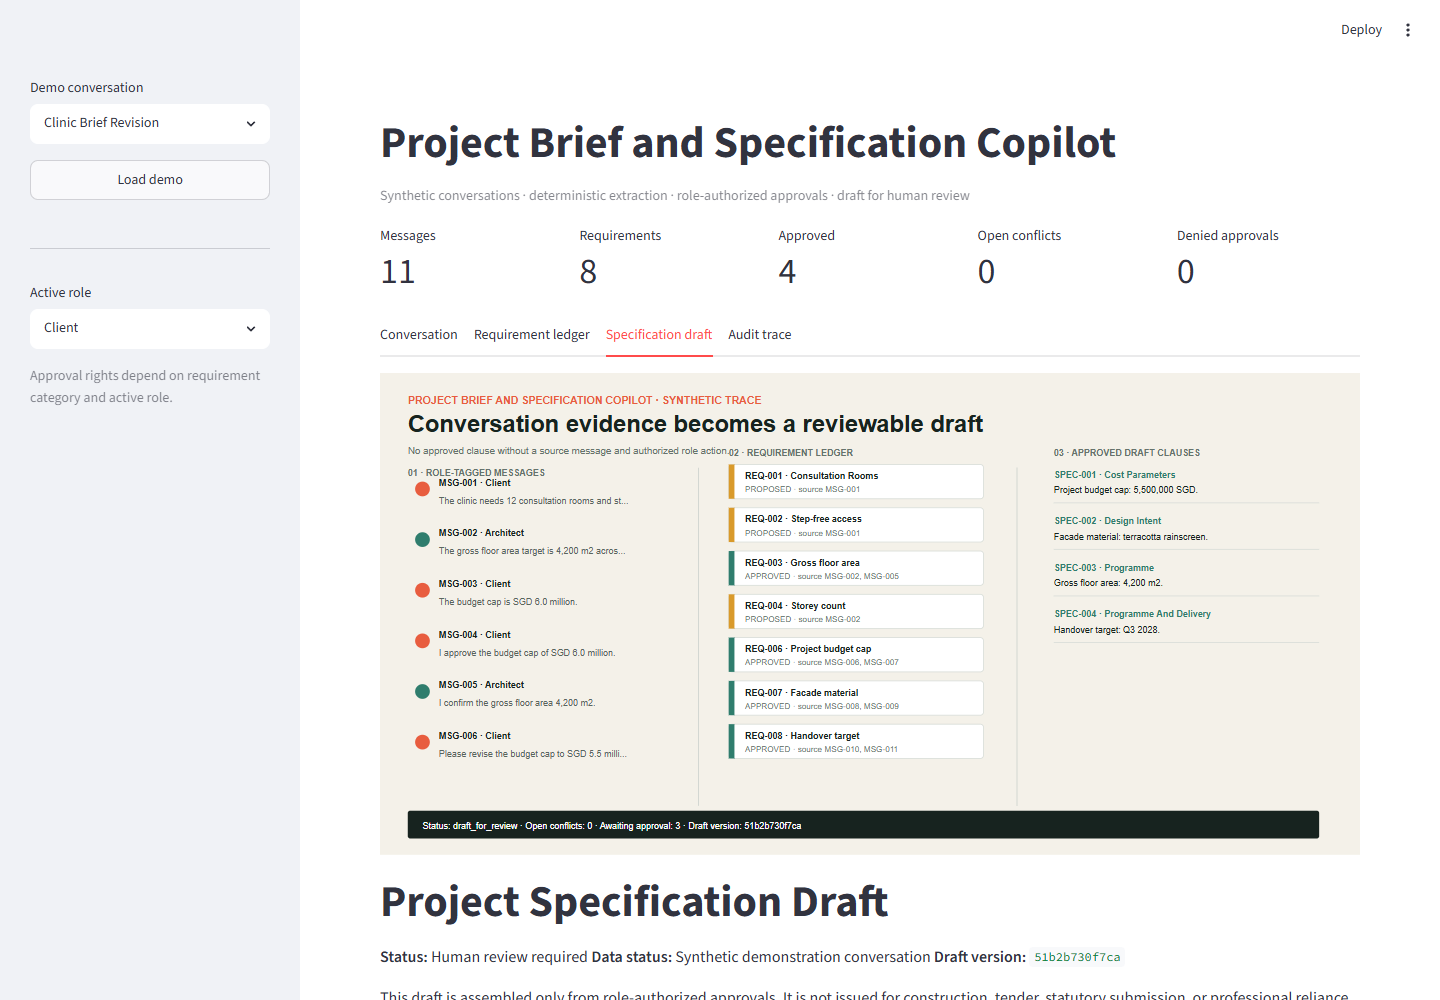
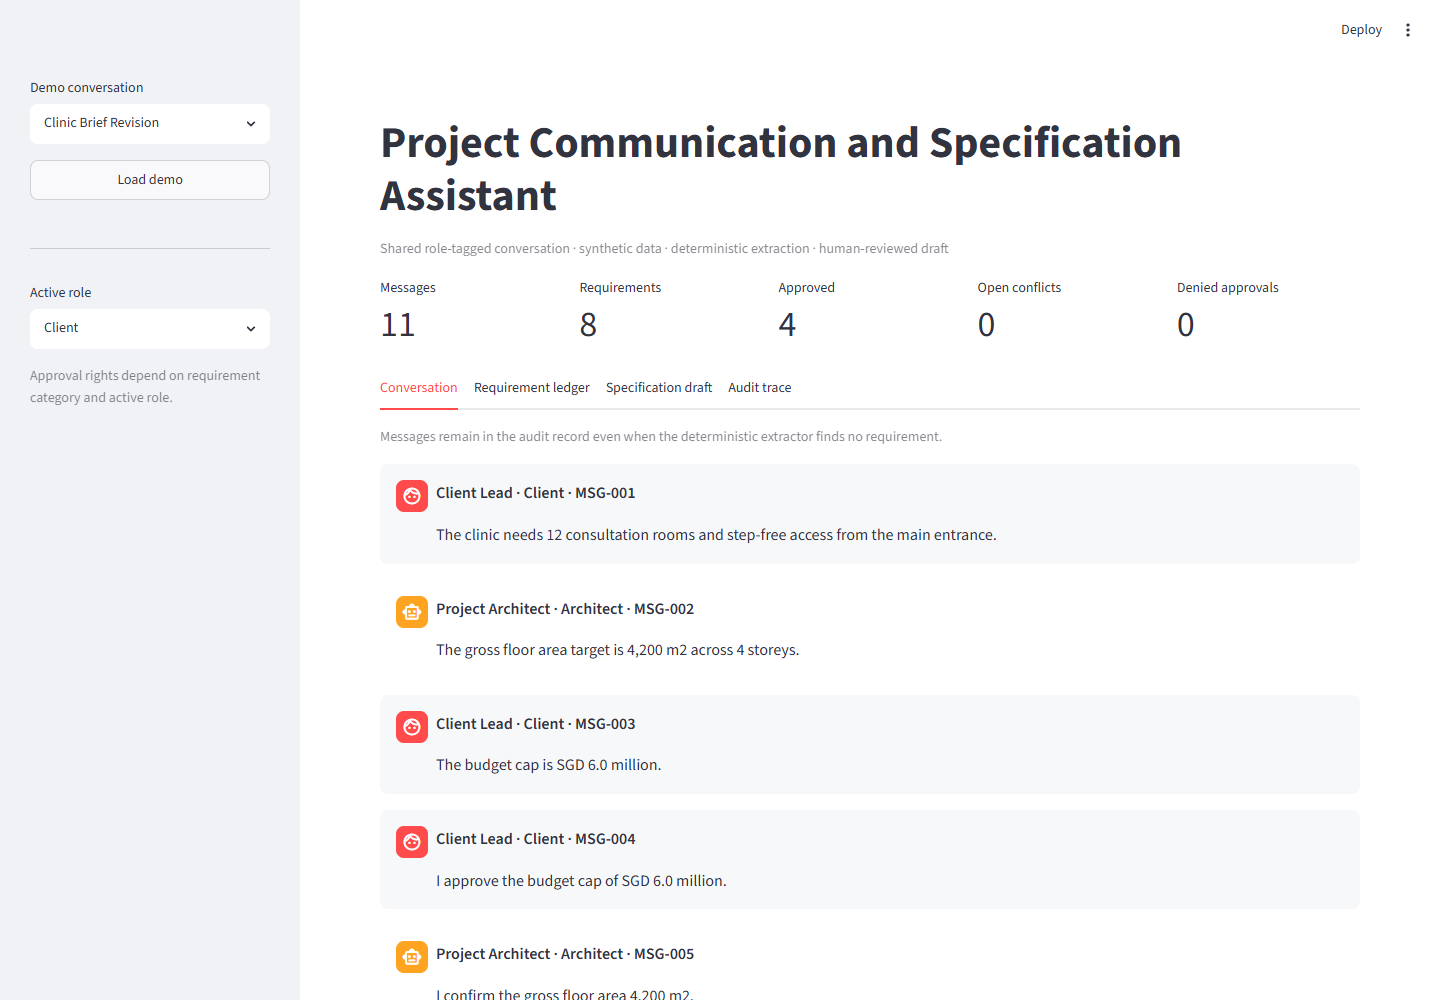
Clarify collaborative specification assistant

diff --git a/portfolio-site/index.html b/portfolio-site/index.html
@@ -142,11 +142,11 @@
           <div class="support-grid support-grid--three">
             <article class="project-card project-card--visual">
               <img src="assets/specification-copilot-demo.png" alt="Role-tagged project messages, requirement ledger, and source-linked draft clauses" />
-              <span>Requirements Intelligence</span>
-              <h3>Project Brief and Specification Copilot</h3>
-              <p>Versioned requirements, conflict detection, scoped approvals, audit events, and source-linked draft clauses.</p>
+              <span>Project Communication</span>
+              <h3>Communication and Specification Assistant</h3>
+              <p>Shared role-tagged chat, versioned requirements, conflict detection, scoped approvals, audit events, and source-linked draft clauses.</p>
               <strong>5 conversations / 35 messages / 1.000 fixture F1</strong>
-              <small>Synthetic authored fixtures; deterministic phrase grammar, not a professional specification.</small>
+              <small>Synthetic authored fixtures; deterministic phrase grammar, not open-domain chat or a professional specification.</small>
               <a href="https://github.com/josiahsutd-stack/ai-portfolio/tree/main/projects/project-specification-copilot">View project</a>
             </article>
             <article class="project-card project-card--visual">

diff --git a/tests/test_project_specification_copilot.py b/tests/test_project_specification_copilot.py
@@ -3,6 +3,7 @@ from __future__ import annotations
 from pathlib import Path
 
 from project_specification_copilot import (
+    ROLES,
     AuditStore,
     Message,
     SpecificationEngine,
@@ -101,6 +102,33 @@ def test_unsupported_chatter_produces_no_requirement_or_clause() -> None:
     assert not engine.snapshot().requirements
     assert engine.draft_specification().status == "needs_review"
     assert not engine.draft_specification().clauses
+
+
+def test_multi_party_conversation_preserves_roles_and_gates_draft_clauses() -> None:
+    engine = SpecificationEngine()
+    messages = [
+        ("client", "The project needs a community hall."),
+        ("architect", "The entrance shall be step-free."),
+        ("structural_engineer", "The structural system shall be steel frame."),
+        ("quantity_surveyor", "The budget cap is SGD 6 million."),
+        ("project_manager", "The completion target is 18 months."),
+        ("contractor", "Please coordinate temporary access at the next meeting."),
+    ]
+    for role, text in messages:
+        engine.submit_message(role, text)
+    engine.submit_message("client", "I approve the community hall.")
+
+    snapshot = engine.snapshot()
+    draft = engine.draft_specification()
+
+    assert {message.role for message in snapshot.messages}.issubset(set(ROLES))
+    assert [message.sequence for message in snapshot.messages] == list(
+        range(1, len(snapshot.messages) + 1)
+    )
+    assert len({message.message_id for message in snapshot.messages}) == len(snapshot.messages)
+    assert len(draft.clauses) == 1
+    assert draft.clauses[0].approved_by_role == "client"
+    assert draft.unapproved_requirement_ids
 
 
 def test_sqlite_audit_events_persist_in_order(tmp_path: Path) -> None:

diff --git a/projects/project-specification-copilot/app.py b/projects/project-specification-copilot/app.py
@@ -34,11 +34,13 @@ def load_case(case_index: int) -> SpecificationEngine:
 
 
 st.set_page_config(
-    page_title="Project Brief and Specification Copilot", page_icon="PS", layout="wide"
+    page_title="Project Communication and Specification Assistant",
+    page_icon="PS",
+    layout="wide",
 )
-st.title("Project Brief and Specification Copilot")
+st.title("Project Communication and Specification Assistant")
 st.caption(
-    "Synthetic conversations · deterministic extraction · role-authorized approvals · draft for human review"
+    "Shared role-tagged conversation · synthetic data · deterministic extraction · human-reviewed draft"
 )
 
 with st.sidebar:
@@ -76,6 +78,9 @@ conversation_tab, ledger_tab, specification_tab, audit_tab = st.tabs(
 )
 
 with conversation_tab:
+    st.caption(
+        "Messages remain in the audit record even when the deterministic extractor finds no requirement."
+    )
     for message in snapshot.messages:
         with st.chat_message("user" if message.role == "client" else "assistant"):
             st.markdown(

diff --git a/projects/project-specification-copilot/src/project_specification_copilot/rendering.py b/projects/project-specification-copilot/src/project_specification_copilot/rendering.py
@@ -53,10 +53,10 @@ def render_specification_trace_svg(snapshot: ProjectSnapshot, draft: Specificati
             f'<line x1="825" y1="{y + 27}" x2="1150" y2="{y + 27}" stroke="#d8ddd8"/>'
         )
     return f"""<svg xmlns="http://www.w3.org/2000/svg" width="1200" height="590" viewBox="0 0 1200 590" role="img" aria-labelledby="title desc">
-  <title id="title">Role-aware project specification trace</title>
+  <title id="title">Role-aware project communication and specification trace</title>
   <desc id="desc">Synthetic conversation messages linked to extracted requirements and approved specification clauses.</desc>
   <rect width="1200" height="590" fill="#f4f1e9"/>
-  <text x="34" y="38" font-family="Arial, sans-serif" font-size="13" font-weight="700" fill="#e85d3f">PROJECT BRIEF AND SPECIFICATION COPILOT · SYNTHETIC TRACE</text>
+  <text x="34" y="38" font-family="Arial, sans-serif" font-size="13" font-weight="700" fill="#e85d3f">PROJECT COMMUNICATION AND SPECIFICATION ASSISTANT · SYNTHETIC TRACE</text>
   <text x="34" y="72" font-family="Arial, sans-serif" font-size="29" font-weight="700" fill="#17231f">Conversation evidence becomes a reviewable draft</text>
   <text x="34" y="99" font-family="Arial, sans-serif" font-size="12" fill="#66736c">No approved clause without a source message and authorized role action.</text>
   <line x1="390" y1="116" x2="390" y2="530" stroke="#cbd2cc"/>

diff --git a/projects/project-specification-copilot/src/project_specification_copilot/api.py b/projects/project-specification-copilot/src/project_specification_copilot/api.py
@@ -5,7 +5,7 @@ from pydantic import BaseModel, Field
 
 from .engine import SpecificationEngine
 
-app = FastAPI(title="Project Brief and Specification Copilot")
+app = FastAPI(title="Project Communication and Specification Assistant")
 
 
 class ConversationMessage(BaseModel):

diff --git a/projects/project-specification-copilot/src/project_specification_copilot/evaluation.py b/projects/project-specification-copilot/src/project_specification_copilot/evaluation.py
@@ -160,7 +160,7 @@ def write_evaluation_artifacts(
         json.dumps(summary, indent=2, sort_keys=True) + "\n", encoding="utf-8"
     )
     metrics = summary["metrics"]
-    report = f"""# Project Specification Copilot Evaluation
+    report = f"""# Project Communication and Specification Assistant Evaluation
 
 **Data status:** synthetic
 

diff --git a/projects/project-specification-copilot/README.md b/projects/project-specification-copilot/README.md
@@ -1,6 +1,6 @@
-# Project Brief and Specification Copilot
+# Project Communication and Specification Assistant
 
-Local collaboration workflow that converts role-tagged client, architect, consultant, QS, project-manager, and contractor messages into a provenance-linked requirement ledger and a human-review specification draft.
+Local, chat-style collaboration workflow for client, architect, consultant, QS, project-manager, and contractor communication. It converts role-tagged messages into a provenance-linked requirement ledger and a human-review specification draft.
 
 **Data status:** all bundled conversations, roles, requirements, and evaluation labels are synthetic. No client correspondence or project specification is included.
 
@@ -8,7 +8,7 @@ Local collaboration workflow that converts role-tagged client, architect, consul
 
 ## Implemented System
 
-- Role-tagged project conversation with immutable message IDs.
+- Shared, role-tagged project conversation with immutable message IDs and a Streamlit chat interface.
 - Deterministic extraction for documented programme, site, budget, schedule, access, structure, facade, and performance requirement forms.
 - Requirement lifecycle: proposed, approved, superseded.
 - Numeric and categorical conflict detection without silent merging.

diff --git a/docs/architecture-diagrams.md b/docs/architecture-diagrams.md
@@ -41,11 +41,11 @@ flowchart LR
   D --> F["Issue report"]
 ```
 
-## Project Brief and Specification Copilot
+## Project Communication and Specification Assistant
 
 ```mermaid
 flowchart LR
-  A["Role-tagged project messages"] --> B["Requirement extraction"]
+  A["Shared role-tagged project chat"] --> B["Requirement extraction"]
   B --> C["Versioned requirement ledger"]
   C --> D["Conflict register"]
   C --> E["Role authorization gate"]

diff --git a/projects/project-specification-copilot/ARCHITECTURE.md b/projects/project-specification-copilot/ARCHITECTURE.md
@@ -4,6 +4,10 @@
 
 The system treats project communication as evidence, not as permission to write authoritative specifications. Messages may propose requirements. Only authorized approval events can move a requirement into the draft clause set.
 
+## Conversation Model
+
+The Streamlit interface presents one shared project conversation. Each message records an author, project role, sequence number, immutable message ID, and data-status label before extraction runs. Client and team messages use the same event path; role changes affect approval authority, not whether a message is retained. This is a local single-session demonstration, not a multi-user messaging service, authenticated collaboration platform, or open-domain chatbot.
+
 ## Components
 
 | Component | Responsibility | Boundary |

diff --git a/README.md b/README.md
@@ -49,7 +49,7 @@ Two supporting projects complete that workflow:
 
 | Project | Implemented evidence | Current result | Boundary |
 | --- | --- | --- | --- |
-| [Project Brief and Specification Copilot](projects/project-specification-copilot/README.md) | Role-tagged messages, requirement versions, conflict detection, approval scopes, SQLite audit events, source ids, and draft clauses. | All authored extraction, conflict, approval, clause, citation, and denial checks pass across 5 synthetic conversations and 35 messages. | Exact fixture regression over a deterministic phrase grammar; not open-domain language understanding or a professional specification. |
+| [Project Communication and Specification Assistant](projects/project-specification-copilot/README.md) | Shared role-tagged chat, requirement versions, conflict detection, approval scopes, SQLite audit events, source ids, and draft clauses. | All authored extraction, conflict, approval, clause, citation, and denial checks pass across 5 synthetic conversations and 35 messages. | Exact fixture regression over a deterministic phrase grammar; not open-domain language understanding, a multi-user messaging service, or a professional specification. |
 | [QS Takeoff and Tender Analysis Workbench](projects/qs-takeoff-tender-analysis/README.md) | Shared-wall geometry, opening deductions, quantity formulas, rate provenance, uncertainty bands, and line-level tender exceptions. | 21/21 authored quantities and all 5 tender exceptions reproduced; naive perimeter baseline wall MAE `6.333 m`, implemented estimator `0.000 m`. | Synthetic vector plans, rates, and tenders; no PDF/CAD/BIM parsing, market pricing, professional QS output, or award recommendation. |
 
 ![Role-tagged project communication converted into auditable requirements and draft clauses](docs/assets/screenshots/specification-copilot-demo.png)

diff --git a/docs/EVIDENCE_LEDGER.md b/docs/EVIDENCE_LEDGER.md
@@ -10,7 +10,7 @@ This ledger maps versioned quantitative results to JSON artifacts and the local 
 | [AEC Code Compliance RAG Assistant](../projects/aec-code-compliance-rag/README.md) | In-process ASGI contract over the bundled synthetic corpus | 12/12 checks passed; 9 requests and 3 client errors observed before the metrics response | [`service_contract_summary.json`](../projects/aec-code-compliance-rag/demo_outputs/service_contract_summary.json) | `python projects/aec-code-compliance-rag/evaluate_service.py` | Document-assistance prototype; not compliance certification, professional advice, sustained-load, uptime, or external deployment evidence |
 | [AEC Code Compliance RAG Assistant](../projects/aec-code-compliance-rag/README.md) | Fixed warmed in-process ASGI workload over the bundled synthetic corpus; no network, external deployment, sustained load, or user traffic | 14/14 checks passed; 48/48 HTTP 200 responses; 0 server errors; P95 at or below 500 ms; 48 durable query rows after app reconstruction | [`service_reliability_summary.json`](../projects/aec-code-compliance-rag/demo_outputs/service_reliability_summary.json) | `python projects/aec-code-compliance-rag/evaluate_service_reliability.py` | Document-assistance prototype; not compliance certification, professional advice, sustained-load, uptime, or external deployment evidence |
 | [Constraint-Aware Massing Explorer](../projects/constraint-aware-massing-explorer/README.md) | Fixed three-site, three-seed synthetic geometry benchmark with 864 candidates per mode | Feasible rate 0.977 vs 0.052; mean best GFA error 0.19% vs 34.47%; 864 candidates per mode | [`evaluation_summary.json`](../projects/constraint-aware-massing-explorer/demo_outputs/evaluation_summary.json) | `python projects/constraint-aware-massing-explorer/evaluate_massing.py` | No code inference, internal egress model, calibrated environmental simulation, or approvable design |
-| [Project Brief and Specification Copilot](../projects/project-specification-copilot/README.md) | Authored deterministic phrase-grammar regression over 5 synthetic conversations and 35 messages | Extraction/conflict/approval/clause F1 1.000/1.000/1.000/1.000; citation coverage 1.000; 5 synthetic cases | [`evaluation_summary.json`](../projects/project-specification-copilot/demo_outputs/evaluation_summary.json) | `python projects/project-specification-copilot/evaluate_specification.py` | Not open-domain language understanding, authenticated authority, or a professional project specification |
+| [Project Communication and Specification Assistant](../projects/project-specification-copilot/README.md) | Authored deterministic phrase-grammar regression over 5 synthetic conversations and 35 messages | Extraction/conflict/approval/clause F1 1.000/1.000/1.000/1.000; citation coverage 1.000; 5 synthetic cases | [`evaluation_summary.json`](../projects/project-specification-copilot/demo_outputs/evaluation_summary.json) | `python projects/project-specification-copilot/evaluate_specification.py` | Not open-domain language understanding, authenticated authority, or a professional project specification |
 | [QS Takeoff and Tender Analysis Workbench](../projects/qs-takeoff-tender-analysis/README.md) | Hand-calculated deterministic fixture regression over 3 synthetic vector plans, 21 quantity lines, and 3 tenders | Quantity exact match 1.000; wall MAE 0.000 m vs baseline 6.333 m; tender F1 1.000; 3 plans | [`evaluation_summary.json`](../projects/qs-takeoff-tender-analysis/demo_outputs/evaluation_summary.json) | `python projects/qs-takeoff-tender-analysis/evaluate_qs.py` | No PDF/CAD/BIM parsing, live market pricing, professional quantity survey, or tender recommendation |
 | [AEC Design-To-Cost Integration Contract](../integrations/aec-design-to-cost/README.md) | Deterministic cross-project contract over one labeled synthetic workflow fixture | 5 approved requirements (3 mapped, 2 retained); 16 sourced fields; 92/96 feasible candidates; 42 storey-matched; 7/7 priced lines; tender not_run | [`workflow_trace.json`](../integrations/aec-design-to-cost/demo_outputs/workflow_trace.json) | `python integrations/aec-design-to-cost/run_workflow.py` | One synthetic cross-project contract fixture; not professional design, compliance, cost advice, tender evaluation, or project delivery |
 | [Construction Embodied Agent Simulator](../projects/vla-embodied-agent-simulator/README.md) | Fixed-seed disjoint procedural construction-grid holdout | Egocentric filtered success 0.760; rendered RGB standard/shifted filtered success 0.719/0.427; shifted raw success 0.000; 96 holdout scenarios | [`behavior_cloning_eval_summary.json`](../projects/vla-embodied-agent-simulator/demo_outputs/behavior_cloning_eval_summary.json) | `python projects/vla-embodied-agent-simulator/evaluate_vla.py` | Pixels are rendered from simulator state and the filter has full rules; MuJoCo uses a planar body and static proxies, with no physical-camera perception, foundation VLA, mobile-robot dynamics, ROS, hardware, or physical-safety validation |

diff --git a/docs/adr/0006-aec-workflow-selected-set.md b/docs/adr/0006-aec-workflow-selected-set.md
@@ -6,7 +6,7 @@ The massing, specification, and QS projects now have focused tests, deterministi
 
 ## Decision
 
-Keep AEC Code Compliance RAG as the sole flagship. Select the Construction Embodied Agent Simulator and Constraint-Aware Massing Explorer as primary projects. Select the Project Brief and Specification Copilot and QS Takeoff and Tender Analysis Workbench as supporting AEC workflow projects.
+Keep AEC Code Compliance RAG as the sole flagship. Select the Construction Embodied Agent Simulator and Constraint-Aware Massing Explorer as primary projects. Select the Project Communication and Specification Assistant and QS Takeoff and Tender Analysis Workbench as supporting AEC workflow projects.
 
 Move the generic text-classification, research-workflow, and MLOps systems to `experiments/` while retaining their code, tests, and evidence.
 